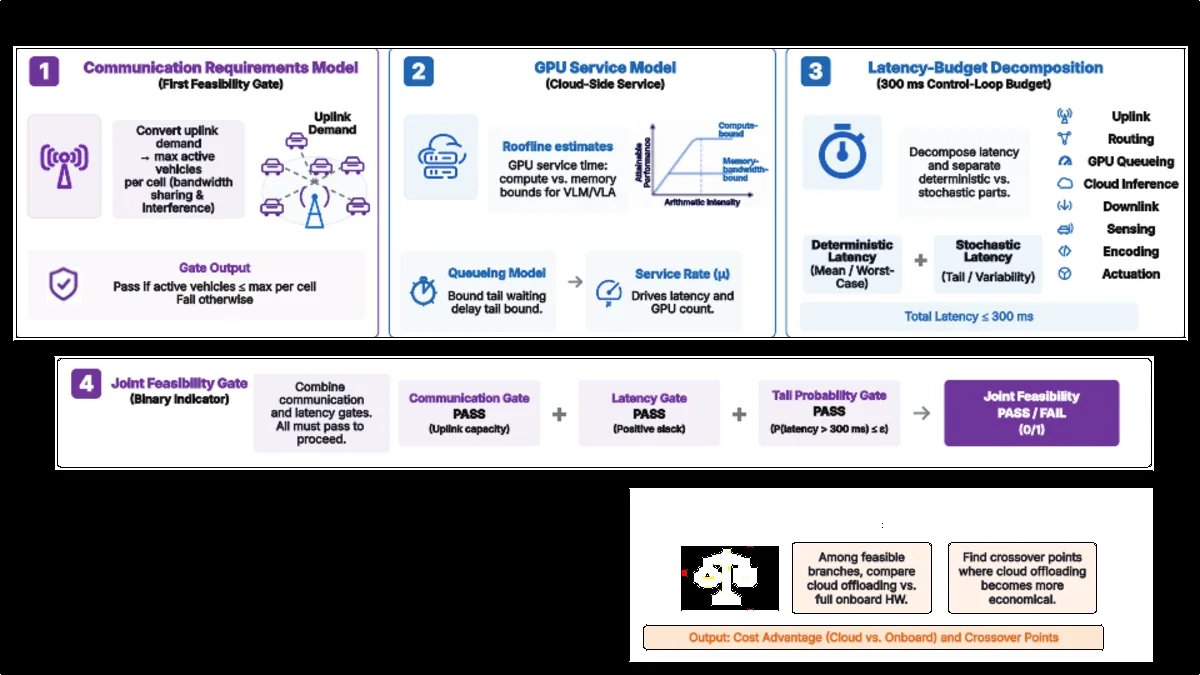
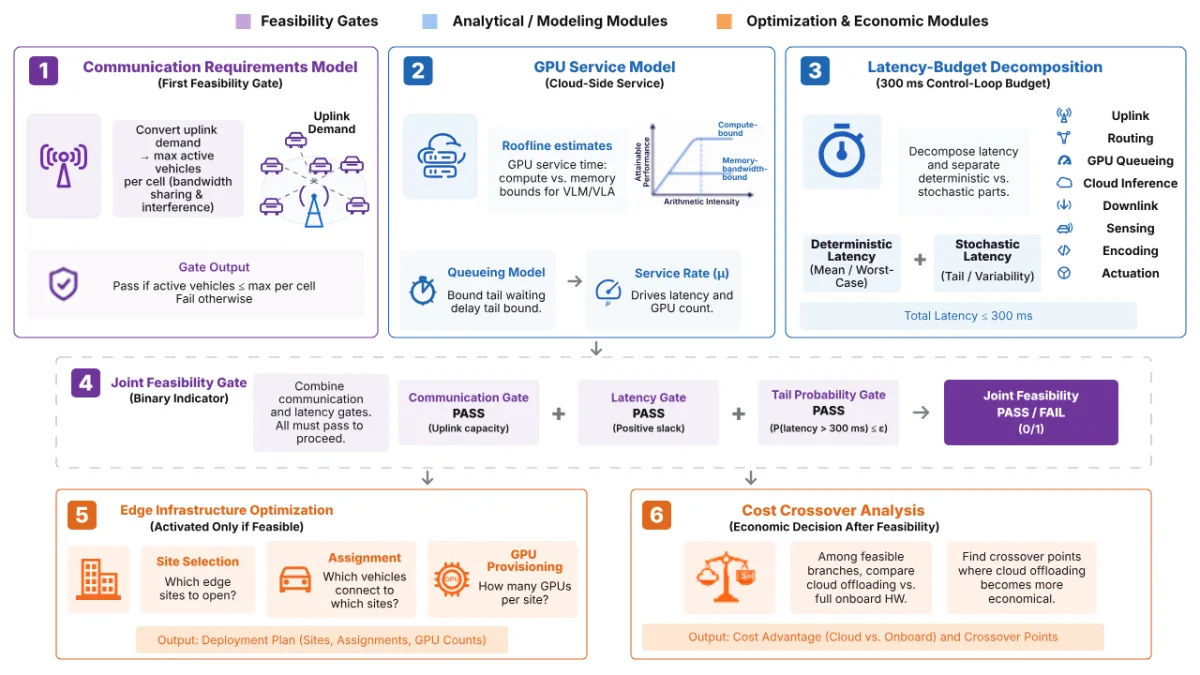
fix: restore Figure 1 white background

diff --git a/tests/site-content.test.js b/tests/site-content.test.js
@@ -1,5 +1,6 @@
 const test = require("node:test");
 const assert = require("node:assert/strict");
+const { spawnSync } = require("node:child_process");
 const fs = require("node:fs");
 const path = require("node:path");
 
@@ -180,6 +181,33 @@ test("article uses lightweight previews above the fold", () => {
       `${preview.file} exceeds its performance budget`
     );
   }
+});
+
+test("Figure 1 preview preserves its light canvas background", () => {
+  const preview = path.join(
+    root,
+    "images/cloud-drive/figure-01-preview.webp"
+  );
+  const cropArguments = [
+    preview,
+    "-crop",
+    "1x1+10+500",
+    "-depth",
+    "8",
+    "rgb:-",
+  ];
+  let result = spawnSync("magick", cropArguments);
+
+  if (result.error?.code === "ENOENT") {
+    result = spawnSync("convert", cropArguments);
+  }
+
+  assert.equal(result.error, undefined, "ImageMagick is required for image tests");
+  assert.equal(result.status, 0, result.stderr.toString());
+  assert.ok(
+    [...result.stdout.subarray(0, 3)].every((channel) => channel >= 250),
+    "the whitespace around Figure 1 must render white, not black"
+  );
 });
 
 test("Cloud Drive article exposes semantic research and discovery metadata", () => {
